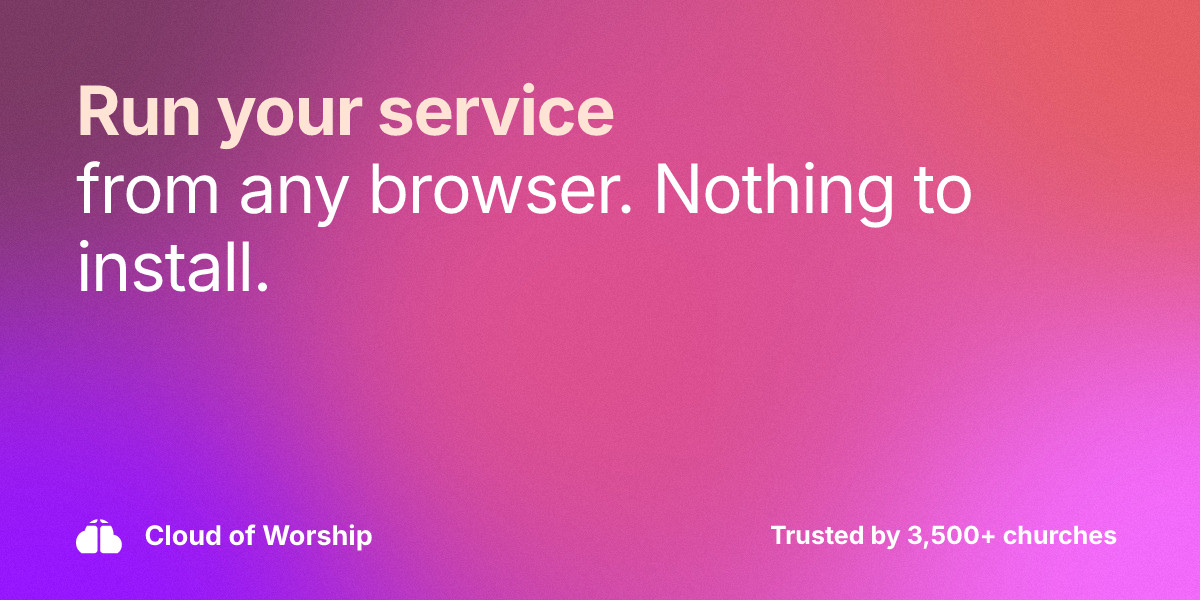
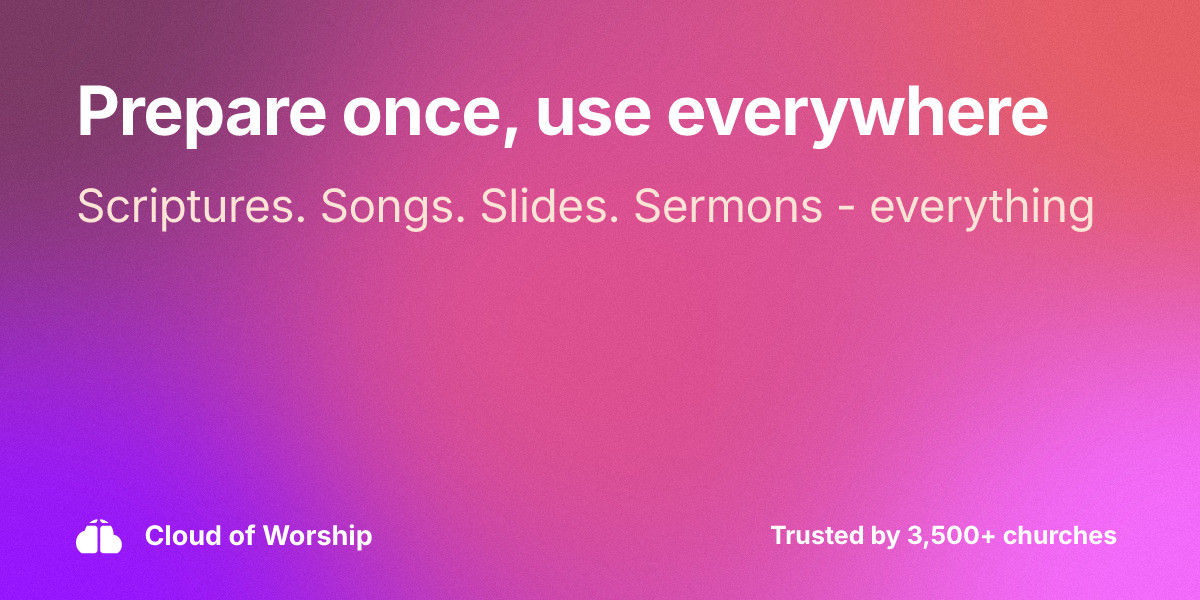
chore: updated OG image

Changed region(s): [[0.0617, 0.12, 0.925, 0.51]]

diff --git a/app/components/OgImage/Default.takumi.vue b/app/components/OgImage/Default.takumi.vue
@@ -19,11 +19,17 @@ withDefaults(
     accent?: string
     /** The headline. Keep it under ~90 characters so it stays on four lines. */
     title?: string
+    /**
+     * Supporting line under the headline. Optional — cards that read as one
+     * sentence use `accent` + `title` instead and leave this empty.
+     */
+    subtitle?: string
   }>(),
   {
     eyebrow: "",
     accent: "",
     title: "Presentation software for your growing church.",
+    subtitle: "",
   },
 )
 </script>
@@ -88,7 +94,23 @@ withDefaults(
           }"
         >
           <span v-if="accent" :style="{ color: '#FFE4D6', marginRight: '16px' }">{{ accent }}</span>
-          <span :style="{ fontWeight: 400 }">{{ title }}</span>
+          <span :style="{ fontWeight: accent ? 400 : 700 }">{{ title }}</span>
+        </div>
+
+        <div
+          v-if="subtitle"
+          :style="{
+            display: 'flex',
+            maxWidth: '1048px',
+            marginTop: '26px',
+            fontSize: '46px',
+            lineHeight: 1.3,
+            fontWeight: 400,
+            color: '#FFE4D6',
+            letterSpacing: '-0.01em',
+          }"
+        >
+          {{ subtitle }}
         </div>
       </div>
 

diff --git a/app/utils/ogCards.ts b/app/utils/ogCards.ts
@@ -15,6 +15,7 @@ export interface OgCard {
   eyebrow?: string
   accent?: string
   title: string
+  subtitle?: string
 }
 
 export const OG_CARDS = {
@@ -34,7 +35,11 @@ export const OG_CARDS = {
   // Served from app.cloudofworship.com (the operator app repo), not this site.
   // Regenerated here so the card template stays in one place; copy the output
   // to that repo's public/images/og/ after running yarn og:generate.
-  app: { file: "app", accent: "Run your service", title: "from any browser. Nothing to install." },
+  app: {
+    file: "app",
+    title: "Prepare once, use everywhere",
+    subtitle: "Scriptures. Songs. Slides. Sermons - everything",
+  },
 
   download: { file: "download", eyebrow: "Desktop app", accent: "Download for Windows.", title: "Native projection, NDI output, automatic updates." },
 

diff --git a/app/pages/__og.vue b/app/pages/__og.vue
@@ -9,6 +9,7 @@ const props = computed(() => ({
   eyebrow: (route.query.eyebrow as string) || "",
   accent: (route.query.accent as string) || "",
   title: (route.query.title as string) || "",
+  subtitle: (route.query.subtitle as string) || "",
 }))
 
 defineOgImage("Default", props.value)
